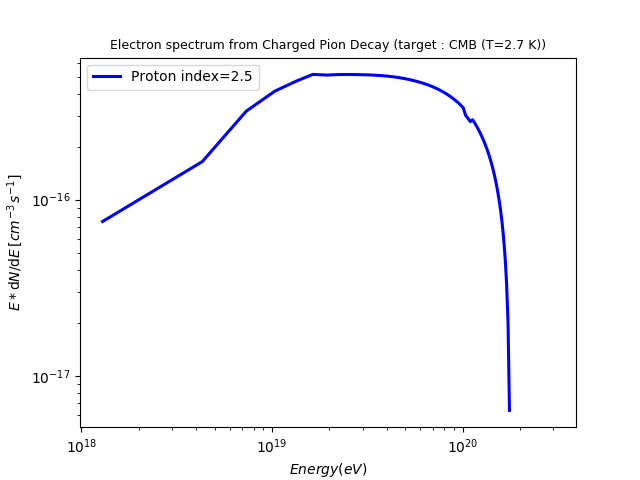
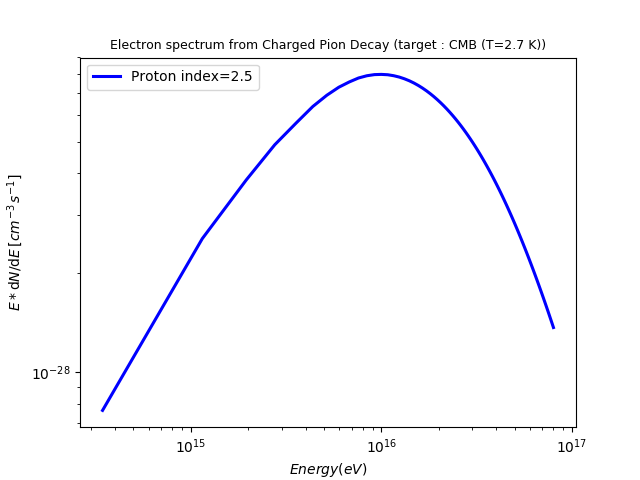
Updated electron spectrum

diff --git a/trial_pgamma_model/pgamma_piondecay.py b/trial_pgamma_model/pgamma_piondecay.py
@@ -329,9 +329,9 @@ if __name__ == '__main__':
 
     start = timeit.default_timer()
     pdist1 = PL(4.3e8 / u.eV, 1e3 * u.GeV, 2.5)
-    pg1 = PionDecay_gamma(pdist1, T=1e4 * u.K, norm = 1.5e21 * u.Unit('erg-3 cm-3'))
+    #pg1 = PionDecay_gamma(pdist1, T=1e4 * u.K, norm = 1.5e21 * u.Unit('erg-3 cm-3'))
     #pg1 = PionDecay_positron(pdist1, T=1e4 * u.K, norm = 1.5e21 * u.Unit('erg-3 cm-3'))
-    #pg1 = PionDecay_electron(pdist1)
+    pg1 = PionDecay_electron(pdist1, T=1e4 * u.K, norm = 1.5e21 * u.Unit('erg-3 cm-3'))
 
     gamma_arr = np.linspace(0.43e-2, 1, 100) * pg1._E
 
@@ -343,16 +343,16 @@ if __name__ == '__main__':
             'weight': 'normal', 'size': 16.0}
     plt.loglog(gamma_arr, gamma_arr * sed, label='Proton index=2.5',
                lw=2.2, ls='-', color='blue')
-    plt.title(
-        'Gamma-ray spec. from Neutral Pion Decay (target : CMB ($T=10^4 K$))', fontsize=9)
+    #plt.title(
+    #    'Gamma-ray spec. from Neutral Pion Decay (target : CMB ($T=10^4 K$))', fontsize=9)
     #plt.title(
     #    'Positron spectrum from Charged Pion Decay (target : CMB ($T=10^4 K$))', fontsize=9)
-    #plt.title(
-    #    'Electron spectrum from Charged Pion Decay (target : CMB (T=2.7 K))', fontsize=9)
+    plt.title(
+        'Electron spectrum from Charged Pion Decay (target : CMB (T=2.7 K))', fontsize=9)
     plt.xlabel('$Energy (eV)$')
     plt.ylabel(r'$E*{\rm d}N/{\rm d}E\,[cm^{-3}\,s^{-1}]$')
     plt.legend(loc='best')
-    plt.savefig('./images/pgamma_photons.png')
+    #plt.savefig('./images/pgamma_photons.png')
     #plt.savefig('./images/pgamma_positrons.png')
-    #plt.savefig('./images/pgamma_electrons.png')
+    plt.savefig('./images/pgamma_electrons.png')
     plt.show()
